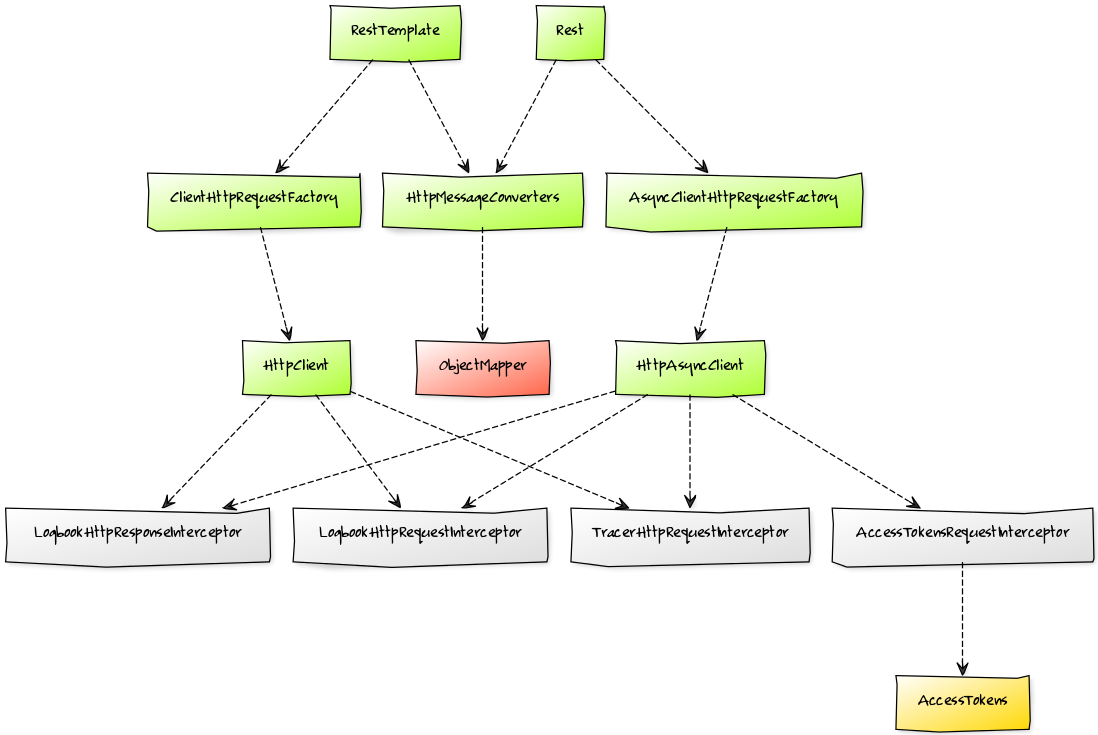
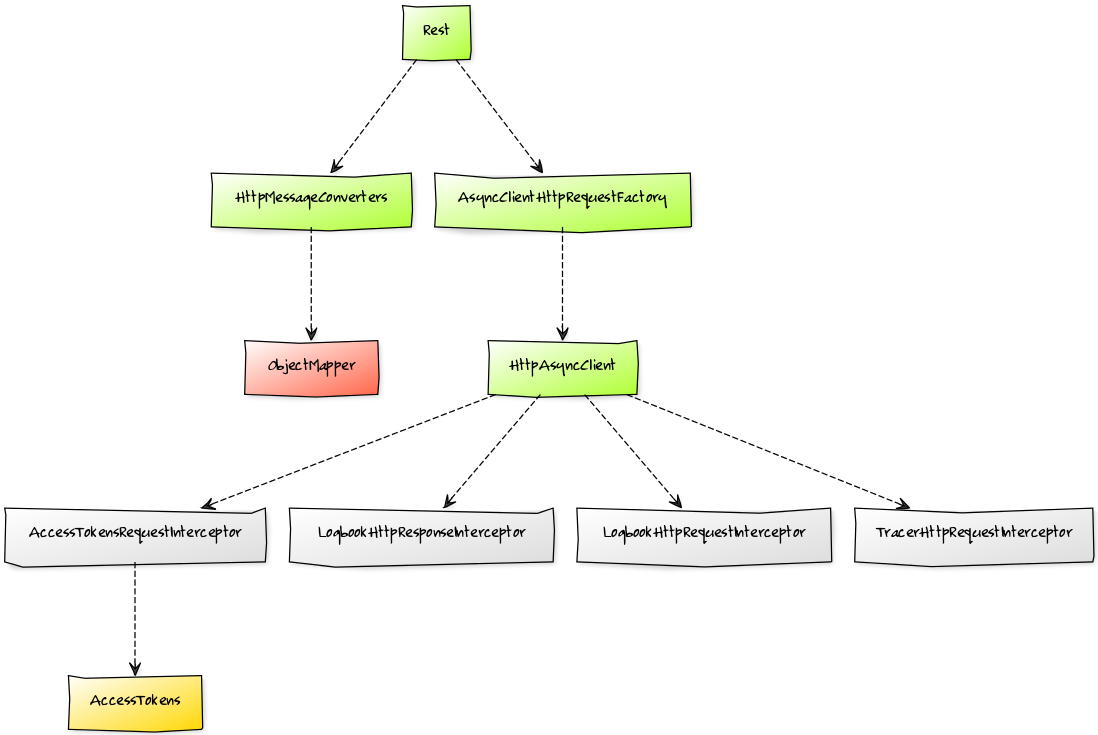
remove all synchronous components

diff --git a/src/main/java/org/zalando/putittorest/RestClientPostProcessor.java b/src/main/java/org/zalando/putittorest/RestClientPostProcessor.java
@@ -4,7 +4,6 @@ import com.fasterxml.jackson.databind.ObjectMapper;
 import com.google.common.annotations.VisibleForTesting;
 import com.google.gag.annotation.remark.Hack;
 import lombok.SneakyThrows;
-import org.apache.http.client.HttpClient;
 import org.apache.http.nio.client.HttpAsyncClient;
 import org.springframework.beans.BeansException;
 import org.springframework.beans.factory.config.ConfigurableListableBeanFactory;
@@ -18,12 +17,9 @@ import org.springframework.context.EnvironmentAware;
 import org.springframework.core.env.ConfigurableEnvironment;
 import org.springframework.core.env.Environment;
 import org.springframework.http.client.AsyncClientHttpRequestFactory;
-import org.springframework.http.client.ClientHttpRequestFactory;
 import org.springframework.http.client.HttpComponentsAsyncClientHttpRequestFactory;
-import org.springframework.http.client.HttpComponentsClientHttpRequestFactory;
 import org.springframework.http.converter.StringHttpMessageConverter;
 import org.springframework.http.converter.json.MappingJackson2HttpMessageConverter;
-import org.springframework.web.client.RestTemplate;
 import org.springframework.web.util.DefaultUriTemplateHandler;
 import org.zalando.riptide.Rest;
 import org.zalando.stups.oauth2.httpcomponents.AccessTokensRequestInterceptor;
@@ -58,9 +54,6 @@ public class RestClientPostProcessor implements BeanDefinitionRegistryPostProces
 
             final String asyncFactoryId = registerAsyncClientHttpRequestFactory(id, timeouts, oauth);
             registerRest(id, asyncFactoryId, convertersId, baseUrl);
-
-            final String factoryId = registerClientHttpRequestFactory(id, timeouts, oauth);
-            registerRestTemplate(id, factoryId, convertersId, baseUrl);
 
         });
     }
@@ -145,46 +138,6 @@ public class RestClientPostProcessor implements BeanDefinitionRegistryPostProces
     private String registerHttpAsyncClient(final String id, @Nullable final OAuth oauth) {
         return registry.register(id, HttpAsyncClient.class, () -> {
             final BeanDefinitionBuilder httpClient = BeanDefinitionBuilder.genericBeanDefinition(HttpAsyncClientFactoryBean.class);
-            configureInterceptors(httpClient, id, oauth);
-            return httpClient;
-        });
-    }
-
-    private String registerRestTemplate(final String id, final String factoryId, final String convertersId, final String baseUrl) {
-        return registry.register(id, RestTemplate.class, () -> {
-            final BeanDefinitionBuilder template = BeanDefinitionBuilder.genericBeanDefinition(RestTemplate.class);
-            template.addConstructorArgReference(factoryId);
-            configureRestTemplate(template, baseUrl, convertersId);
-            return template;
-        });
-    }
-
-    private void configureRestTemplate(final BeanDefinitionBuilder builder, final String baseUrl, final String convertersId) {
-        final DefaultUriTemplateHandler handler = new DefaultUriTemplateHandler();
-        handler.setBaseUrl(baseUrl);
-        builder.addPropertyValue("uriTemplateHandler", handler);
-
-        final AbstractBeanDefinition converters = BeanDefinitionBuilder.genericBeanDefinition()
-                .setFactoryMethod("getConverters")
-                .getBeanDefinition();
-        converters.setFactoryBeanName(convertersId);
-
-        builder.addPropertyValue("messageConverters", converters);
-    }
-
-    private String registerClientHttpRequestFactory(final String id, final Timeouts timeouts, final OAuth oauth) {
-        return registry.register(id, ClientHttpRequestFactory.class, () -> {
-            final BeanDefinitionBuilder factory = BeanDefinitionBuilder.genericBeanDefinition(HttpComponentsClientHttpRequestFactory.class);
-            factory.addConstructorArgReference(registerHttpClient(id, oauth));
-            configureTimeouts(factory, timeouts);
-            factory.getBeanDefinition().setPrimary(true); // Async factory extends HttpComponentsClientHttpRequestFactory
-            return factory;
-        });
-    }
-
-    private String registerHttpClient(final String id, final OAuth oauth) {
-        return registry.register(id, HttpClient.class, () -> {
-            final BeanDefinitionBuilder httpClient = BeanDefinitionBuilder.genericBeanDefinition(HttpClientFactoryBean.class);
             configureInterceptors(httpClient, id, oauth);
             return httpClient;
         });

diff --git a/src/test/java/org/zalando/putittorest/AsyncClientHttpRequestFactoryTest.java b/src/test/java/org/zalando/putittorest/AsyncClientHttpRequestFactoryTest.java
@@ -5,42 +5,34 @@ import org.junit.runner.RunWith;
 import org.springframework.beans.factory.annotation.Autowired;
 import org.springframework.beans.factory.annotation.Qualifier;
 import org.springframework.boot.test.SpringApplicationConfiguration;
-import org.springframework.context.annotation.Bean;
 import org.springframework.context.annotation.Configuration;
 import org.springframework.context.annotation.Import;
-import org.springframework.http.client.ClientHttpRequestFactory;
+import org.springframework.http.client.AsyncClientHttpRequestFactory;
+import org.springframework.http.client.HttpComponentsAsyncClientHttpRequestFactory;
 import org.springframework.stereotype.Component;
 import org.springframework.test.context.junit4.SpringJUnit4ClassRunner;
 
+import static org.hamcrest.Matchers.is;
 import static org.junit.Assert.assertThat;
-import static org.mockito.Mockito.mock;
-import static org.zalando.putittorest.Mocks.isMock;
 
 @RunWith(SpringJUnit4ClassRunner.class)
 @SpringApplicationConfiguration
 @Component
-public final class ClientHttpRequestFactoryOverrideTest {
+public final class AsyncClientHttpRequestFactoryTest {
 
     @Configuration
     @Import(DefaultTestConfiguration.class)
     public static class TestConfiguration {
 
-        @Bean
-        @Qualifier("example")
-        public ClientHttpRequestFactory exampleClientHttpRequestFactory() {
-            return mock(ClientHttpRequestFactory.class);
-        }
-
     }
 
     @Autowired
     @Qualifier("example")
-    // we had to be more specific, because there are two different factories
-    private ClientHttpRequestFactory exampleClientHttpRequestFactory;
+    private AsyncClientHttpRequestFactory async;
 
     @Test
-    public void shouldOverride() {
-        assertThat(exampleClientHttpRequestFactory, isMock());
+    public void shouldAutowireAsync() {
+        assertThat(async.getClass(), is(HttpComponentsAsyncClientHttpRequestFactory.class));
     }
 
 }

diff --git a/src/test/java/org/zalando/putittorest/RestClientAnnotationConfigurationTest.java b/src/test/java/org/zalando/putittorest/RestClientAnnotationConfigurationTest.java
@@ -4,7 +4,6 @@ import org.junit.Test;
 import org.junit.runner.RunWith;
 import org.springframework.boot.test.SpringApplicationConfiguration;
 import org.springframework.test.context.junit4.SpringJUnit4ClassRunner;
-import org.springframework.web.client.RestTemplate;
 import org.zalando.putittorest.annotation.RestClient;
 import org.zalando.riptide.Rest;
 
@@ -19,24 +18,16 @@ public class RestClientAnnotationConfigurationTest {
     @RestClient("example")
     private Rest exampleRest;
 
-    @RestClient("example")
-    private RestTemplate exampleRestTemplate;
-
     @RestClient("ecb")
     private Rest ecbRest;
-
-    @RestClient("example")
-    private RestTemplate ecbRestTemplate;
 
     @Test
     public void shouldWireOAuthCorrectly() {
         assertThat(exampleRest, is(notNullValue()));
-        assertThat(exampleRestTemplate, is(notNullValue()));
     }
 
     @Test
     public void shouldWireNonOAuthCorrectly() {
         assertThat(ecbRest, is(notNullValue()));
-        assertThat(ecbRestTemplate, is(notNullValue()));
     }
 }

diff --git a/README.md b/README.md
@@ -43,7 +43,7 @@ private Rest example;
 - Java 8
 - Any build tool using Maven Central, or direct download
 - Spring Boot
-- Apache HTTP Client
+- Apache HTTP Async Client
 
 ## Installation
 
@@ -120,12 +120,12 @@ private Rest example;
 
 All beans that are created for each client use the *Client ID*, in this case `example`, as their qualifier.
 
-Besides `Rest`, you can also alternatively inject any of the following types directly:
-- `RestTemplate`
-- `ClientHttpRequestFactory`
-- `HttpClient`
+Besides `Rest`, you can also alternatively inject any of the following types per client directly:
 - `AsyncClientHttpRequestFactory`
 - `HttpAsyncClient`
+- `HttpMessageConverters`
+
+A global `AccessTokens` bean is also provided.
 
 ## Customization
 
@@ -156,9 +156,6 @@ The following table shows all beans with their respective name (for the `example
 |----------------------------------------|---------------------------------|----------------------------|
 | `accessToken` (no client prefix!)      | `AccessTokens`                  | OAuth settings             |
 | `exampleHttpMessageConverters`         | `HttpMessageConverters`         | Text and JSON              |
-| `exampleHttpClient`                    | `HttpClient`                    | Interceptors               |
-| `exampleClientHttpRequestFactory`      | `ClientHttpRequestFactory`      | Timeouts                   |
-| `exampleRestTemplate`                  | `RestTemplate`                  | Base URL                   |
 | `exampleHttpAsyncClient`               | `HttpAsyncClient`               | Interceptors               |
 | `exampleAsyncClientHttpRequestFactory` | `AsyncClientHttpRequestFactory` | Timeouts                   |
 | `exampleRest`                          | `Rest`                          | Base URL                   |
